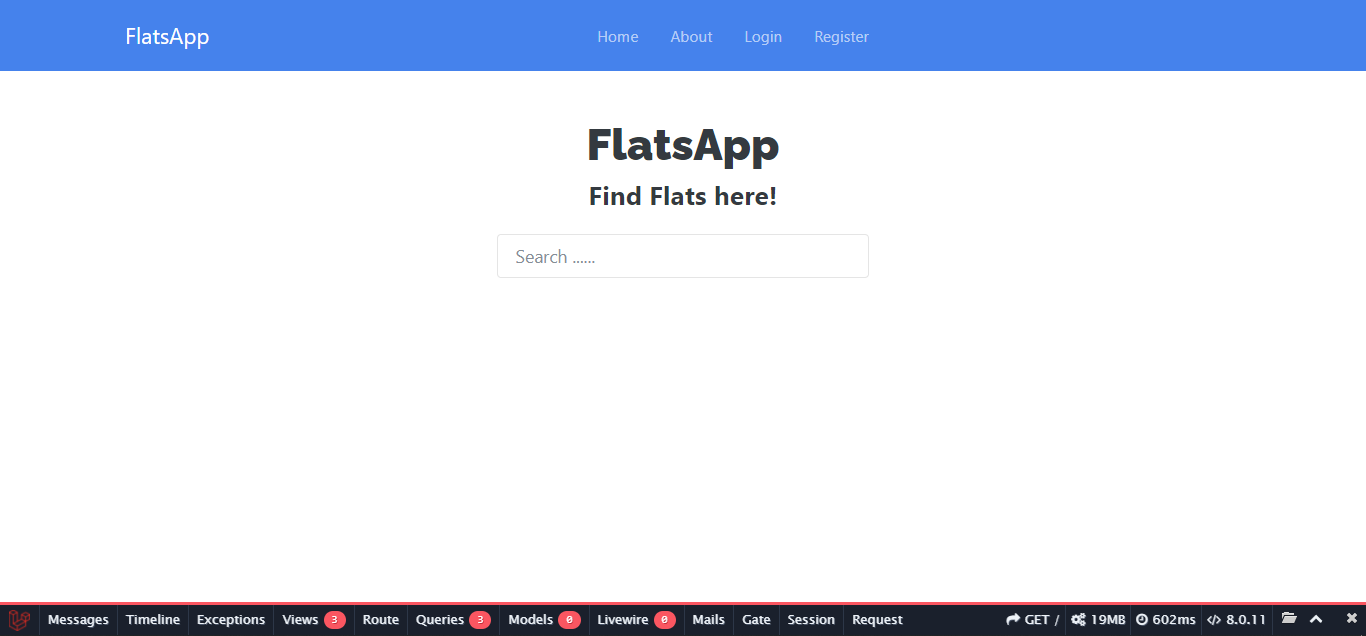
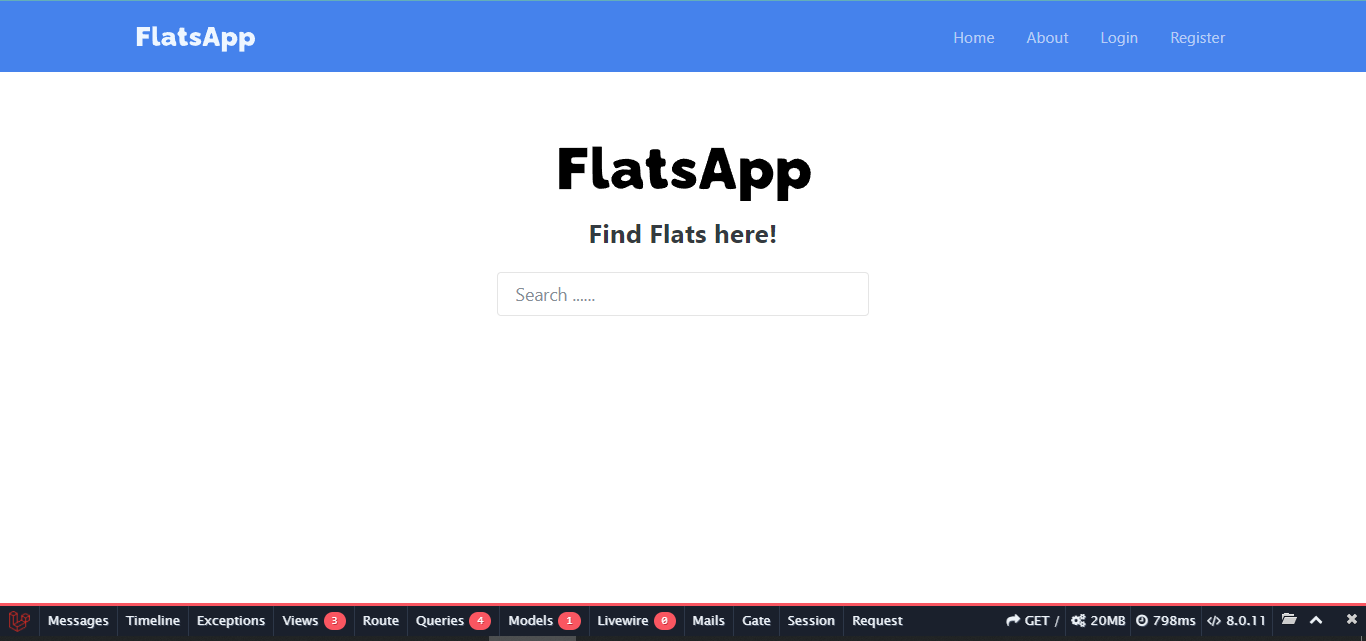
controllers modified

diff --git a/public/assets/css/customs.css b/public/assets/css/customs.css
@@ -1,6 +1,13 @@
 h1 {
     font-family: "Raleway", sans-serif;
 }
+
 .my-font-bold {
     font-weight: 900;
+}
+
+.logo-img {
+    filter: invert(1);
+    filter: invert(1) sepia(1) saturate(5) hue-rotate(175deg);
+    width: 140px;
 }

diff --git a/resources/views/partials/navbar.blade.php b/resources/views/partials/navbar.blade.php
@@ -3,7 +3,7 @@
       <div class="d-flex flex-grow-1">
           <span class="w-100 d-lg-none d-block"><!-- hidden spacer to center brand on mobile --></span>
           <a class="navbar-brand d-none d-lg-inline-block" href="/">
-              FlatsApp
+            <img src="{{url('/assets/images/logo.svg')}}" alt="Logo" alt="logo" class="logo-img">
           </a>
           <a class="navbar-brand-two mx-auto d-lg-none d-inline-block" href="/">
               <img src="//via.placeholder.com/40?text=LOGO" alt="logo">
@@ -14,22 +14,21 @@
               </button>
           </div>
       </div>
-      <div class="collapse navbar-collapse flex-grow-1 text-right" id="myNavbar">
-          <ul class="navbar-nav ml-auto flex-nowrap">
-              <li class="nav-item">
-                  <a href="/" class="nav-link m-2 menu-item nav-active">Home</a>
-              </li>
-              <li class="nav-item">
-                  <a href="/about" class="nav-link m-2 menu-item">About</a>
-              </li>
-              <li class="nav-item">
-                  <a href="{{ route('login') }}" class="nav-link m-2 menu-item">Login</a>
-              </li>
-              <li class="nav-item">
-                  <a href="{{ route('register') }}" class="nav-link m-2 menu-item">Register</a>
-              </li>
-
-          </ul>
-      </div>
+        <div class="d-flex">
+            <ul class="navbar-nav ml-auto flex-nowrap">
+                <li class="nav-item">
+                    <a href="/" class="nav-link m-2 menu-item nav-active">Home</a>
+                </li>
+                <li class="nav-item">
+                    <a href="/about" class="nav-link m-2 menu-item">About</a>
+                </li>
+                <li class="nav-item">
+                    <a href="{{ route('login') }}" class="nav-link m-2 menu-item">Login</a>
+                </li>
+                <li class="nav-item">
+                    <a href="{{ route('register') }}" class="nav-link m-2 menu-item">Register</a>
+                </li>
+            </ul>
+        </div>
     </div>
 </nav>

diff --git a/resources/views/home.blade.php b/resources/views/home.blade.php
@@ -1,7 +1,7 @@
 @extends('layouts.main')
     @section('container')
         <div class="col-lg-12 text-center mt-5">
-            <h1>{{ $title }}</h1>
+            {!! file_get_contents('assets/images/logo.svg') !!}
             <h4>Find Flats here!</h4>
         </div>
         <div class="col-md-4 offset-md-4 mt-1 pt-3">

diff --git a/resources/views/about.blade.php b/resources/views/about.blade.php
@@ -1,7 +1,7 @@
 @extends('layouts.main')
     @section('container')
         <div class="col-lg-12 text-center mt-5">
-            <h1>{{ $title }}</h1>
+            {!! file_get_contents('assets/images/logo.svg') !!}
             <h4>Welcome!</h4>
         </div>
             <p>{{ $about }}</p>
